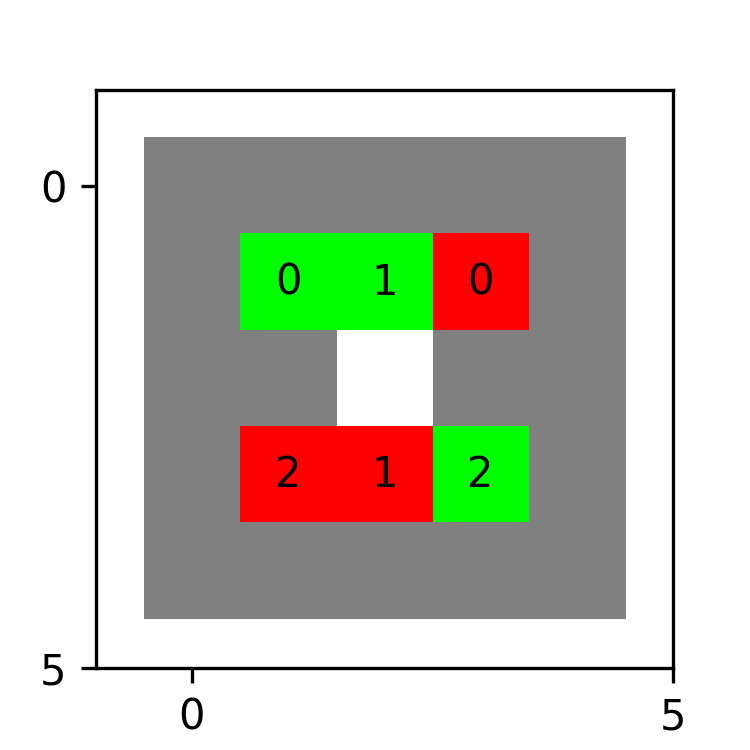
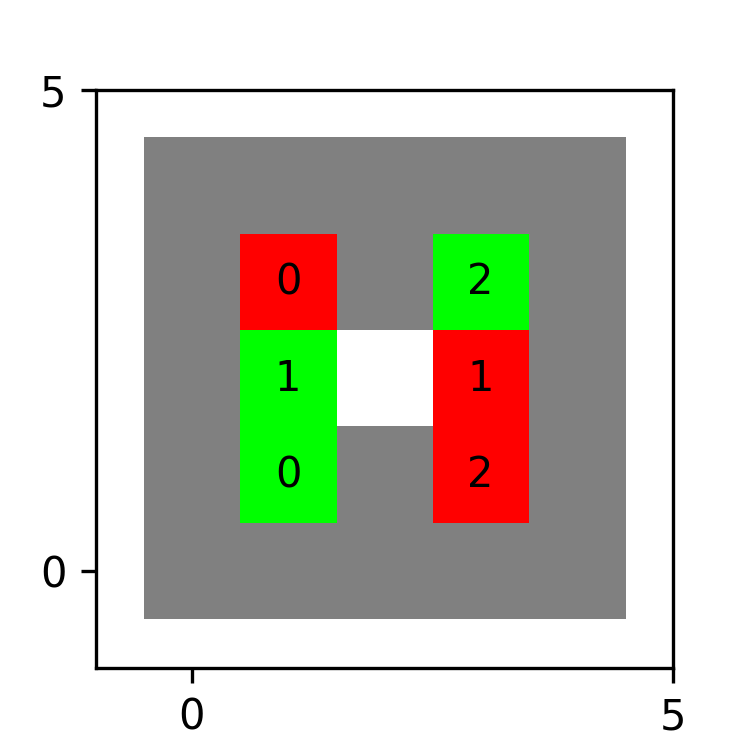
fixed gauntlet and maps

diff --git a/maps.py b/maps.py
@@ -16,7 +16,8 @@ map_list = [
             "testmap2.txt", # 10x10, 4 robots
             "vdberg3c.txt", # 32x22, 10 robots
             "quad.txt",     # 32x22, 4 robots
-            "gauntlet.txt"] # 32x21, 19 robots
+            "gauntlet.txt" # 32x21, 19 robots
+]
 
 palette = np.array([[255, 255, 255],   # white, empty
                     [128, 128, 128],   # grey, blocked
@@ -46,7 +47,7 @@ def show_map(mapFile):
 
         search = re.search("MAP_DIMENSIONS", line)
         if search:
-            (x_dim, y_dim) = tuple(int(num) for num in re.findall(r"\d+", line)) # https://stackoverflow.com/a/30933281
+            (y_dim, x_dim) = tuple(int(num) for num in re.findall(r"\d+", line)) # https://stackoverflow.com/a/30933281
 
         search = re.search("ROBOT_COUNT", line)
         if search:
@@ -76,15 +77,15 @@ def show_map(mapFile):
     ## plotting
     plt.close("all")
     plt.figure(figsize=(0.3*x_dim+1,0.3*y_dim+1))
-    ax = plt.imshow(palette[map_array], aspect="equal").axes # https://stackoverflow.com/a/37720602, https://stackoverflow.com/a/8280500
+    ax = plt.imshow(palette[map_array.T], aspect="equal").axes # https://stackoverflow.com/a/37720602, https://stackoverflow.com/a/8280500
     plt.xlim([-1, x_dim])
     plt.ylim([-1, y_dim])
-    ax.invert_yaxis() # https://stackoverflow.com/a/8280500
+    #ax.invert_yaxis() # https://stackoverflow.com/a/8280500
     ax.xaxis.set_major_locator(MultipleLocator(base=5)) # https://stackoverflow.com/a/34880501
     ax.yaxis.set_major_locator(MultipleLocator(base=5)) # https://stackoverflow.com/a/34880501
     for i, coord in enumerate(robot_coords):
-        plt.annotate(str(i), xy=(coord[0], coord[1]), va="center", ha="center")
-        plt.annotate(str(i), xy=(coord[2], coord[3]), va="center", ha="center")
+        plt.annotate(str(i), xy=(coord[1], coord[0]), va="center", ha="center")
+        plt.annotate(str(i), xy=(coord[3], coord[2]), va="center", ha="center")
     name = mapFile.split(".")[0] + ".png"
     plt.savefig(fname=map_root + "images/" + name, dpi=300)
     return
